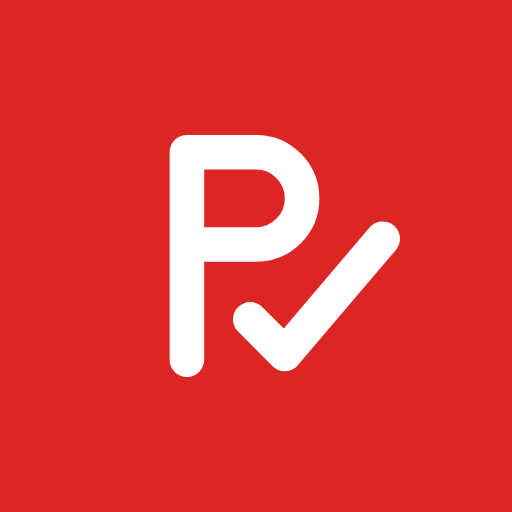
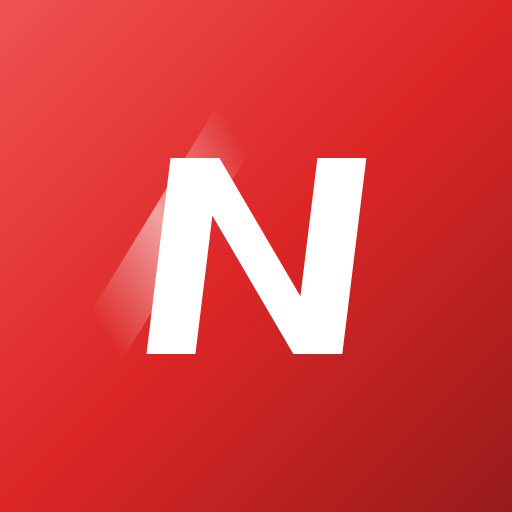
17-9-26-25
เปลี่ยนชื่อแอปเป็น NexPlan (เน็กซ์แพลน) — ระบบวางแผนงานยุคใหม่ พร้อมโลโก้ชุดใหม่แนวเทค

- ตัดเครื่องหมายชุดเดิม (ตัว P + เครื่องหมายถูก ของ PlanNgan) ออกทั้งหมดตามที่สั่ง
- เครื่องหมายใหม่: ตัว N ทึบทรงเรขาคณิตเอียงไปข้างหน้า (Nex = next) พาดด้วยลำแสงทแยง
  บนกรอบมนไล่เฉดแดง — ดูเป็นเทคยุคใหม่ ไม่ใช่สีแบนๆ และอ่านออกตั้งแต่ 512px ถึง 16px
- โลโก้ชุดมีชื่อตัดบรรทัดคำโปรย "แผนงาน · ระบบงานบริการหน้างาน" ใต้ชื่อออก เหลือชื่อแอป
  อย่างเดียว (บนมือถือบรรทัดนั้นเล็กจนอ่านไม่ออก และทำให้โลโก้กว้างจนเบียดปุ่มอื่นบนแถบบน)
- สร้างใหม่ครบชุด: app-icon.svg, 192/512/apple-180/maskable, favicon.ico,
  wordmark light/dark, stacked light/dark
- เลื่อนเลขเวอร์ชันไอคอนใน manifest เป็น v4 และเปลี่ยนคีย์แถบแจ้งเปลี่ยนชื่อเป็น
  app.rebrand.nexplan.ack — ไม่งั้นคนที่เคยกดรับทราบรอบก่อนจะไม่เห็นรอบนี้
- เปลี่ยนชื่อทุกที่ที่อ้างถึง: title, manifest, meta description, หน้าเข้าสู่ระบบ,
  หน้าตั้งค่าองค์กร และรายการรูปที่ติดมากับแอปฝั่งเซิร์ฟเวอร์

แถบบนมือถือ (ค้างจากรอบก่อน)
- ตัดชิปชื่อหน้าที่ทับกับของอื่นออก และลบ layouts/pageTitle.js กับ CSS ที่ตายแล้วทิ้ง
- ใช้โลโก้ชุดเดียวกับจอคอมทุกขนาดจอ ให้เห็นชื่อแอปเสมอ
- จอ <=576px ทางลัดของสายงานเหลือไอคอน+ตัวเลข (มี title/aria-label กำกับ) เพื่อเปิดที่
  ให้ชื่อแอป และบีบขอบซ้าย/ขวาของแถบบนเหลือ 10px

ตรวจแล้ว: eslint ผ่าน · vitest 112 เคสผ่าน · ฝั่งเซิร์ฟเวอร์ 132 route / 25 สิทธิ์ 7 Rank ผ่าน
· Playwright บน Pixel 5 ทั้ง 4 สิทธิ์ ไม่มีสกรอลแนวนอน ของขวาสุดจบที่ 371 จากจอ 393

diff --git a/src/layouts/Header.js b/src/layouts/Header.js
@@ -30,7 +30,6 @@ import {
   FaChevronDown, FaCheck, FaBriefcase,
 } from "react-icons/fa";
 import { can, isRole, ROLES, DEPARTMENT, rankLabel } from "@/shared/utils/roles";
-import { pageTitleFor } from "./pageTitle";
 
 /**
  * ✅ ตัวเลือกของ dropdown "ตารางงาน" — ต่างกันตาม role เพราะ query ?dept= มีความหมายไม่เหมือนกัน
@@ -140,17 +139,14 @@ const Header = ({ toggleMobileSidebar }) => {
   const scheduleLabel = isSecondaryScheduleActive ? scheduleOptions.secondary.label : scheduleOptions.primary.label;
 
   /**
-   * กลางแถบบนของ "จอมือถือ" มีได้ทีละอย่างเดียว (กว้างราว 180px):
-   *   1. ทางลัดตารางงานของเซล — เซลไม่มีทางลัดอื่นบนแถบบนเลย จึงมาก่อน
-   *   2. ชื่อหน้าที่เปิดอยู่ — role อื่นได้อันนี้ (ดูเหตุผลเต็มที่ layouts/pageTitle.js)
-   * ⚠ แถบบนของจอคอมไม่เกี่ยวกับตรงนี้เลย ทั้งสองอย่างเป็น d-lg-none (ผู้ใช้ขอให้จอคอมคงเดิม)
+   * กลางแถบบนของ "จอมือถือ" เหลือได้แค่ทางลัดตารางงานของเซลเท่านั้น
+   *
+   * 🐛 ที่แก้ (ผู้ใช้แจ้ง "โดนทับแล้ว"): เดิมมีชิป "ชื่อหน้าที่เปิดอยู่" อยู่ตรงกลางด้วย
+   * พอโลโก้แอปเปลี่ยนเป็นแบบมีชื่อกำกับ (กว้างขึ้นมาก) พื้นที่ตรงกลางไม่พอ ชิปเลยไปทับกับโลโก้
+   * ✅ ตัดชิปชื่อหน้าออก — ชื่อหน้าอยู่บนหัวของแต่ละหน้าและบนแท็บเบราว์เซอร์อยู่แล้ว ไม่ได้หายไปไหน
+   * ⚠ ทางลัดของเซลยังอยู่ เพราะเป็น "ปุ่มที่กดไปไหนได้" ไม่ใช่ป้ายบอกชื่อเฉยๆ
    */
   const hasScheduleShortcut = !canViewContracts && canViewService;
-  // ✅ "/event" ใช้ชื่อเดียวกับปุ่มเลือกตารางงาน (ต่างกันตาม role + ?dept=) ตารางชื่อหน้าตายตัวตอบไม่ได้
-  const pageTitle = isOnEventPage
-    ? { label: scheduleLabel, Icon: FaCalendarAlt }
-    : pageTitleFor(location.pathname);
-  const PageTitleIcon = pageTitle?.Icon || null;
 
   const { notifications, unread, markRead, markAllRead } = useEventNotifications(
     events,
@@ -199,6 +195,9 @@ const Header = ({ toggleMobileSidebar }) => {
         <NavbarBrand tag={Link} to="/dashboard" className="m-0">
           <div className="gradiant-bg">
             {/* ✅ โลโก้ตั้งค่าเองได้จากหน้าตั้งค่าองค์กร (ว่าง = ใช้ไฟล์ที่ติดมากับแอป) */}
+            {/* ⚠ ใช้ชุดเต็ม (เครื่องหมาย + ชื่อแอป + บรรทัดไทย) ทุกขนาดจอ — ผู้ใช้ยืนยันว่าเอาแบบนี้
+                เคยลองย่อเหลือเฉพาะเครื่องหมายบนมือถือแล้วจำไม่ได้ว่าแอปอะไร
+                ที่ให้พอดีจอมือถือคุมด้วย CSS (.logo ใน Header.css) ไม่ใช่สลับไฟล์ */}
             <img src={appLogoFor({ on: "dark" }, org)} alt="Logo" className="logo" />
           </div>
         </NavbarBrand>
@@ -285,6 +284,10 @@ const Header = ({ toggleMobileSidebar }) => {
             <DropdownToggle
               tag="button" type="button"
               className="header-shortcut-pill d-flex align-items-center gap-1"
+              /* ⚠ จอมือถือซ่อนตัวหนังสือในพิลล์เพื่อเปิดที่ให้ชื่อแอป — ต้องมี title/aria กำกับไว้
+                 ไม่งั้นเหลือไอคอนปฏิทินเปล่าๆ ที่เดาไม่ออกว่ากดแล้วไปไหน */
+              title={scheduleLabel}
+              aria-label={scheduleLabel}
               style={{ fontFamily: "inherit", cursor: "pointer" }}
             >
               <FaCalendarAlt size={12} />
@@ -296,11 +299,6 @@ const Header = ({ toggleMobileSidebar }) => {
             </DropdownToggle>
             <ScheduleDropdownMenu options={scheduleOptions} isSecondaryActive={isSecondaryScheduleActive} />
           </Dropdown>
-        ) : pageTitle ? (
-          <div className="header-page-title d-flex d-lg-none align-items-center gap-2 mx-auto" aria-current="page">
-            <PageTitleIcon size={12} className="header-page-title__icon" />
-            <span>{pageTitle.label}</span>
-          </div>
         ) : null}
 
         {/* ฝั่งขวา: แจ้งเตือน + รูปโปรไฟล์ผู้ใช้งาน + ปุ่มแฮมเบอร์เกอร์ */}

diff --git a/src/layouts/Header.css b/src/layouts/Header.css
@@ -186,14 +186,24 @@
 
   .logo {
     /* ✅ เดิม comment เขียนว่า "ลดขนาด" แต่ค่าจริงคือ 60px ซึ่งใหญ่กว่าจอใหญ่ (48px) เสียอีก
-       เหลือพื้นที่ว่างแนวตั้งแค่ ~2px ในแถบสูง 64px แทบไม่มีลมหายใจเลย ปรับให้เล็กลงจริงตามที่ตั้งใจ */
+       เหลือพื้นที่ว่างแนวตั้งแค่ ~2px ในแถบสูง 64px แทบไม่มีลมหายใจเลย ปรับให้เล็กลงจริงตามที่ตั้งใจ
+       ⚠ สัดส่วนโลโก้ชุดเต็มคือ 300:64 — max-width จึงเป็นตัวคุมจริง (ความสูงจะได้ ~36px) */
     height: 40px !important;
-    max-width: 150px;
+    max-width: 168px;
   }
 
   /* ปิดการแสดงผลเมนูข้อความตรงกลาง */
   .navbar-nav {
     display: none !important;
+  }
+}
+
+/* จอมือถือแนวตั้ง — บีบขอบซ้าย/ขวาของแถบบนลง
+   ⚠ จำเป็นจริงๆ ไม่ใช่แต่งสวย: บนจอ 393px แถวนี้ต้องใส่ โลโก้พร้อมชื่อแอป + ทางลัดของสายงาน
+   + กระดิ่ง + รูปโปรไฟล์ + ปุ่มเมนู ให้ครบ ขอบ 16px สองข้างกินไป 32px จนปุ่มเมนูล้นออกนอกจอ */
+@media (max-width: 575.98px) {
+  .fix-header {
+    padding: 0 10px !important;
   }
 }
 
@@ -220,8 +230,10 @@
   color: #ffffff !important;
 }
 
-/* จอแคบมากๆ (เช่น iPhone SE) ตัดข้อความเหลือแค่ไอคอน+ป้ายจำนวน กันดันโลโก้/ไอคอนขวาจนล้น */
-@media (max-width: 360px) {
+/* ⚠ จอมือถือแนวตั้ง (<=576px) ตัดข้อความของทางลัดเหลือแค่ไอคอน+ป้ายจำนวน
+   เพราะผู้ใช้เลือกแล้วว่า "ชื่อแอปต้องอยู่บนแถบบน" — ป้ายชื่อทางลัดจึงต้องหลีกทางให้
+   (ตัวทางลัดยังกดได้เหมือนเดิม และมี title กำกับไว้) */
+@media (max-width: 576px) {
   .header-shortcut-pill span {
     display: none;
   }
@@ -258,31 +270,4 @@
   line-height: 17px;
   text-align: center;
   vertical-align: middle;
-}
-
-/* ── ชื่อหน้าที่เปิดอยู่ กลางแถบบน (เฉพาะจอมือถือ) ──────────────────────────
-   ✅ ใส่แทนช่องว่างที่เหลือจากการตัดชิป "ภาพรวมงาน" ออก (ดู Header.js + layouts/pageTitle.js)
-   ⚠ เป็นข้อความบอกตำแหน่ง ไม่ใช่ปุ่ม — จงใจไม่มีพื้น/ขอบแบบ .header-shortcut-pill และไม่มี :hover
-   เพื่อไม่ให้ดูเหมือนกดได้ (ของที่ดูกดได้แต่กดไม่ได้ สร้างความสับสนมากกว่าช่องว่าง)
-   ⚠ min-width:0 + ellipsis จำเป็น — ชื่อยาวอย่าง "รออนุมัติการเบิก" บนจอ 360px จะดันไอคอนขวาจนล้น */
-.header-page-title {
-  min-width: 0;
-  max-width: 46vw;
-  color: #e2e8f0;
-  font-size: 12.5px;
-  font-weight: 700;
-  letter-spacing: 0.1px;
-  white-space: nowrap;
-  overflow: hidden;
-}
-
-.header-page-title span {
-  overflow: hidden;
-  text-overflow: ellipsis;
-}
-
-/* ไอคอนจางกว่าตัวอักษรหนึ่งระดับ — เป็นเครื่องหมายประกอบ ไม่ใช่ตัวเนื้อหา */
-.header-page-title__icon {
-  flex: none;
-  opacity: 0.6;
 }

diff --git a/src/shared/services/OrgSettingService.js b/src/shared/services/OrgSettingService.js
@@ -27,7 +27,7 @@ export const ORG_FALLBACK = {
   website: "",
   /**
    * โลโก้บนหัวเว็บ · หน้าเข้าสู่ระบบ
-   * ✅ ค่าเริ่มต้น = โลโก้ของ "แอป" (PlanNgan) ไม่ใช่โลโก้บริษัทใดบริษัทหนึ่ง — องค์กรที่เพิ่งติดตั้ง
+   * ✅ ค่าเริ่มต้น = โลโก้ของ "แอป" (NexPlan) ไม่ใช่โลโก้บริษัทใดบริษัทหนึ่ง — องค์กรที่เพิ่งติดตั้ง
    * จะได้แบรนด์ของแอปไปก่อน แล้วค่อยอัปโหลดโลโก้ตัวเอง หรือกดเลือกชุดที่ติดมากับแอปทับได้
    * ⚠ ชุดเดิมของ DO ALL ยังอยู่ครบทุกไฟล์ — เลือกกลับมาใช้ได้ 1 คลิกจากหน้า "ตั้งค่าองค์กร"
    */
@@ -41,7 +41,7 @@ export const ORG_FALLBACK = {
 };
 
 /**
- * ชุดโลโก้ของแอป (PlanNgan) — มีหลายแบบเพราะพื้นหลังแต่ละที่ไม่เหมือนกัน
+ * ชุดโลโก้ของแอป (NexPlan) — มีหลายแบบเพราะพื้นหลังแต่ละที่ไม่เหมือนกัน
  * ⚠ ไฟล์ PNG มีสีตัวอักษรตายตัว จึงต้องเลือกให้ตรงพื้น ไม่งั้นตัวหนังสือจมหายไปกับพื้น
  */
 export const APP_LOGO = {
@@ -56,14 +56,20 @@ const APP_LOGO_FILES = Object.values(APP_LOGO);
 /**
  * โลโก้ที่ควรใช้ในบริบทนั้นๆ
  * • องค์กรตั้งโลโก้ของตัวเองไว้ (อัปโหลดเอง หรือเลือกชุด DO ALL) → ใช้ของเขาทุกที่เหมือนเดิม
- * • ยังใช้ค่าเริ่มต้นของแอปอยู่ → หยิบไฟล์ PlanNgan ที่เข้ากับพื้นตรงนั้นให้อัตโนมัติ
- * @param {{on?: "dark"|"light", layout?: "wordmark"|"stacked"}} opts
+ * • ยังใช้ค่าเริ่มต้นของแอปอยู่ → หยิบไฟล์ NexPlan ที่เข้ากับพื้นตรงนั้นให้อัตโนมัติ
+ * @param {{on?: "dark"|"light", layout?: "wordmark"|"stacked"|"icon"}} opts
  * @param {object} [settings] ค่าที่หน้าจอ subscribe อยู่ (useOrgSettings) — ส่งมาด้วยเพื่อให้
  *   เปลี่ยนโลโก้แล้วหน้าจอวาดใหม่ทันที (ถ้าอ่านจากแคชเฉยๆ React จะไม่รู้ว่ามีอะไรเปลี่ยน)
  */
 export const appLogoFor = ({ on = "dark", layout = "wordmark" } = {}, settings) => {
   const current = settings?.logoUrl || cache?.logoUrl || ORG_FALLBACK.logoUrl;
   if (current && !APP_LOGO_FILES.includes(current)) return current;
+  /**
+   * ที่แคบมากจริงๆ — เอาเฉพาะเครื่องหมาย ไม่เอาชื่อ
+   * ⚠ แถบบนไม่ได้ใช้ทางนี้แล้ว: ผู้ใช้ยืนยันว่าต้องเห็นชื่อแอปเสมอ ("ให้มีตัวอักษรด้วย")
+   * เหลือไว้สำหรับที่ที่เป็นช่องสี่เหลี่ยมจัตุรัสจริงๆ เท่านั้น
+   */
+  if (layout === "icon") return APP_LOGO.icon;
   if (layout === "stacked") return on === "light" ? APP_LOGO.stackedDark : APP_LOGO.stackedLight;
   return on === "light" ? APP_LOGO.wordmarkDark : APP_LOGO.wordmarkLight;
 };

diff --git a/index.html b/index.html
@@ -2,7 +2,7 @@
 <html lang="en">
   <head>
     <meta charset="utf-8" />
-    <!-- ไอคอนของ "แอป" (PlanNgan) — คนละส่วนกับโลโก้บริษัทที่ตั้งจากหน้า "ตั้งค่าองค์กร" โดยสิ้นเชิง -->
+    <!-- ไอคอนของ "แอป" (NexPlan) — คนละส่วนกับโลโก้บริษัทที่ตั้งจากหน้า "ตั้งค่าองค์กร" โดยสิ้นเชิง -->
     <link rel="icon" href="/favicon.ico" sizes="any" />
     <link rel="icon" type="image/svg+xml" href="/app-icon.svg" />
     <meta name="viewport" content="width=device-width, initial-scale=1" />
@@ -10,7 +10,7 @@
     <meta name="theme-color" content="#dc2626" />
     <meta
       name="description"
-      content="PlanNgan (แผนงาน) — ระบบแผนงานและงานบริการหน้างาน: จัดตารางช่าง · ติดตามการดำเนินงาน · เอกสาร · วางบิล · เบิกค่าใช้จ่าย"
+      content="NexPlan (เน็กซ์แพลน) — ระบบวางแผนงานยุคใหม่: จัดตารางช่าง · ติดตามการดำเนินงาน · เอกสาร · วางบิล · เบิกค่าใช้จ่าย"
     />
     <link rel="apple-touch-icon" href="/app-icon-apple-180.png" />
 
@@ -44,7 +44,7 @@
       ส่วน %PUBLIC_URL% เป็นไวยากรณ์ของ CRA ที่ Vite ไม่รู้จัก — เปลี่ยนเป็น / ตรงๆ ทั้งหมด
       (ไฟล์ใน public/ ยังถูกเสิร์ฟที่ราก / เหมือนเดิม เช่น /favicon.ico, /manifest.json, /push-sw.js)
     -->
-    <title>PlanNgan · แผนงาน</title>
+    <title>NexPlan · ระบบวางแผนงานยุคใหม่</title>
   </head>
   <body>
     <noscript>You need to enable JavaScript to run this app.</noscript>

diff --git a/src/shared/components/AppRebrandNotice.js b/src/shared/components/AppRebrandNotice.js
@@ -15,7 +15,7 @@ import { useEffect, useState } from "react";
 import { Alert, Box, Button, Collapse, Stack, Typography } from "@mui/material";
 import { InstallMobile } from "@mui/icons-material";
 
-const ACK_KEY = "app.rebrand.planngan.ack";
+const ACK_KEY = "app.rebrand.nexplan.ack";   // ⚠ เปลี่ยนคีย์ทุกครั้งที่เปลี่ยนชื่อ/ไอคอน ไม่งั้นคนที่เคยกดรับทราบรอบก่อนจะไม่เห็นรอบใหม่
 
 /** เปิดจากแอปที่ติดตั้งไว้ (ไม่ใช่แท็บเบราว์เซอร์) หรือเปล่า */
 const isInstalledApp = () => {
@@ -63,7 +63,7 @@ export default function AppRebrandNotice() {
         }
       >
         <Typography sx={{ fontWeight: 800, fontSize: "0.9rem" }}>
-          แอปเปลี่ยนชื่อเป็น “PlanNgan (แผนงาน)” พร้อมไอคอนใหม่แล้ว
+          แอปเปลี่ยนชื่อเป็น “NexPlan (เน็กซ์แพลน)” พร้อมไอคอนใหม่แล้ว
         </Typography>
         <Typography variant="caption" sx={{ display: "block", color: "text.secondary" }}>
           ถ้าไอคอนบนหน้าจอโฮมยังเป็นอันเดิม ไม่ได้แปลว่าแอปไม่อัปเดต — ข้างในเป็นเวอร์ชันล่าสุดเสมอ

diff --git a/src/features/settings/pages/OrganizationSettings.js b/src/features/settings/pages/OrganizationSettings.js
@@ -32,7 +32,7 @@ const BORDER = "#e2e8f0";
 const IMAGE_SLOTS = [
   {
     slot: "app", field: "logoUrl", title: "โลโก้แอป",
-    desc: "แสดงบนหัวเว็บและหน้าเข้าสู่ระบบ · ค่าเริ่มต้นคือโลโก้ PlanNgan ของแอป — เลือกชุดอื่นหรืออัปโหลดโลโก้บริษัททับได้",
+    desc: "แสดงบนหัวเว็บและหน้าเข้าสู่ระบบ · ค่าเริ่มต้นคือโลโก้ NexPlan ของแอป — เลือกชุดอื่นหรืออัปโหลดโลโก้บริษัททับได้",
     dark: true,
   },
   {
@@ -185,7 +185,7 @@ export default function OrganizationSettings() {
     }
   };
 
-  /** เลือกรูปที่ติดมากับแอป (PlanNgan / ชุดเดิม) — เร็วกว่าไปหาไฟล์มาอัปโหลดใหม่ */
+  /** เลือกรูปที่ติดมากับแอป (NexPlan / ชุดเดิม) — เร็วกว่าไปหาไฟล์มาอัปโหลดใหม่ */
   const applyPresetImage = async (slot, key) => {
     setBusy(true); setError("");
     try {

diff --git a/src/features/auth/pages/Login.js b/src/features/auth/pages/Login.js
@@ -190,7 +190,7 @@ const Login = () => {
             <Box
               component="img"
               src={appLogoFor({ on: "dark", layout: "stacked" }, org)}
-              alt="PlanNgan"
+              alt="NexPlan"
               sx={{ height: 220, maxWidth: "100%", objectFit: "contain", mb: 1.5, filter: "drop-shadow(0 2px 6px rgba(0,0,0,0.15))" }}
             />
             <Typography variant="h4" sx={{ fontWeight: 700, mb: 1.5, lineHeight: 1.3 }}>
@@ -243,7 +243,7 @@ const Login = () => {
           <Box
             component="img"
             src={appLogoFor({ on: "light" }, org)}
-            alt="PlanNgan"
+            alt="NexPlan"
             sx={{ height: 52, maxWidth: "100%", objectFit: "contain", objectPosition: "left center", mb: 2.5, display: { xs: "block", md: "none" } }}
           />
 

diff --git a/src/app/App.js b/src/app/App.js
@@ -50,7 +50,7 @@ const App = () => {
   useEffect(() => {
     const currentRoute = findCurrentRoute(ThemeRoutes, location.pathname);
     const title = currentRoute ? currentRoute.title || "Dashboard" : "Dashboard";
-    document.title = `${title} · PlanNgan`;
+    document.title = `${title} · NexPlan`;
   }, [location.pathname]);
 
   return (
